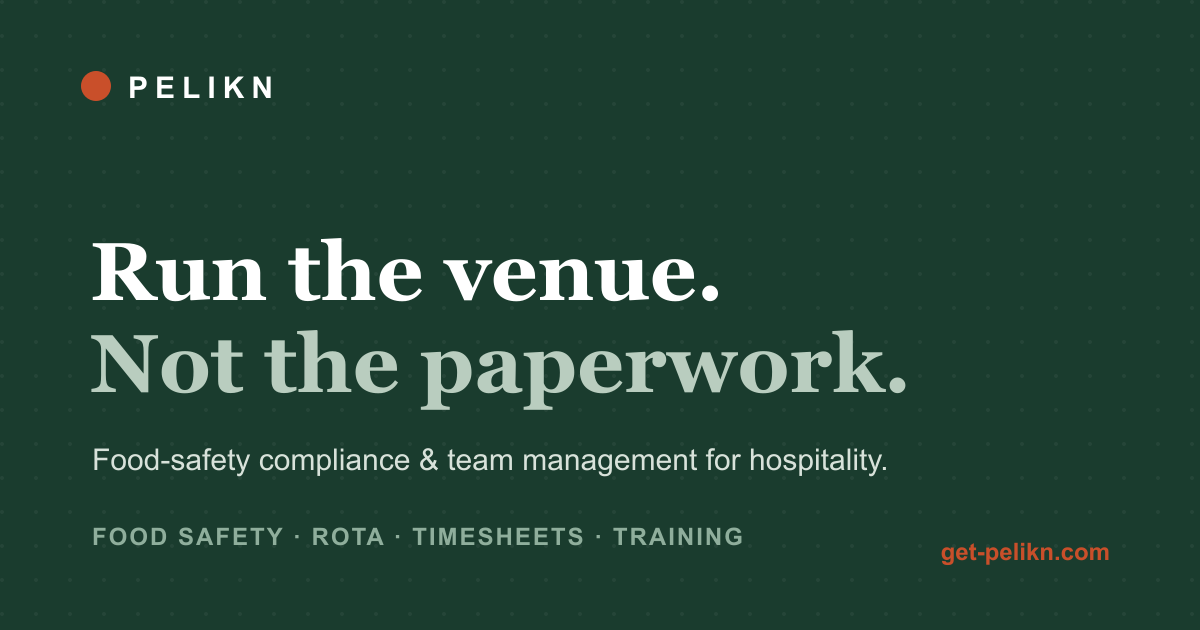
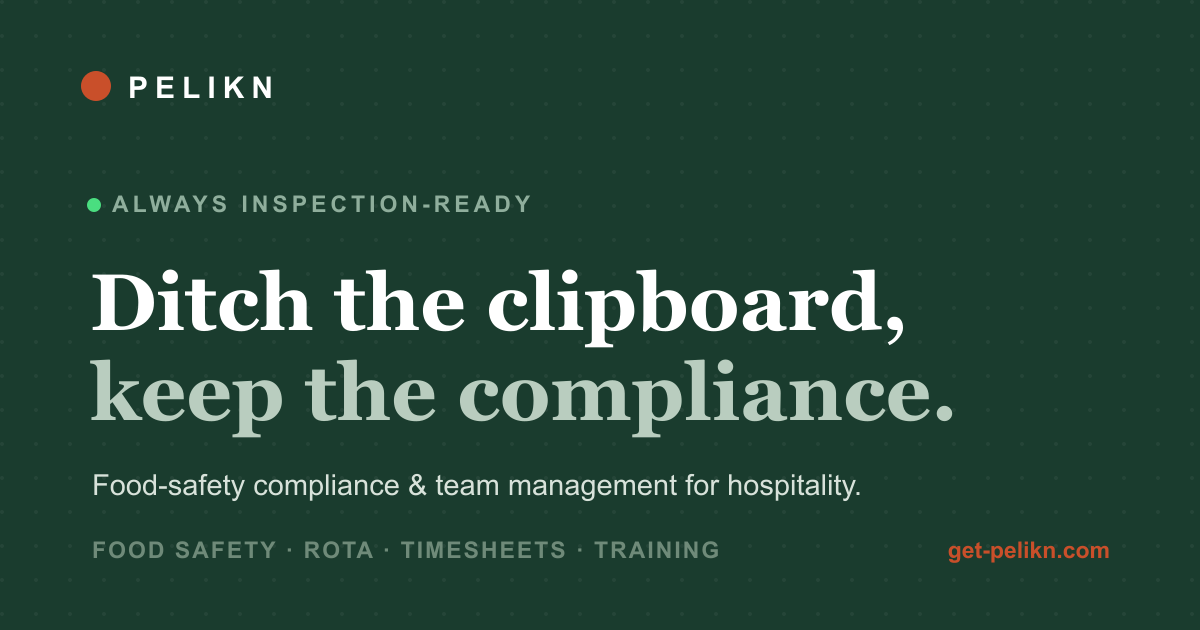
Hero: lead with 'Always inspection-ready' badge; update share tags
Replaces the feature-list hero pill with an 'Always inspection-ready'
eyebrow badge (green dot = ready) above the approved 'Ditch the
clipboard, keep the compliance' headline. Updates OG/Twitter title and
regenerates the share image to match. Drops the old 'Run the venue, not
the paperwork' share line — it implied paperwork is ignored, the opposite
of a compliance product's message.

diff --git a/index.html b/index.html
@@ -20,7 +20,7 @@
     <!-- Open Graph (Facebook, LinkedIn, WhatsApp, Slack…) -->
     <meta property="og:type" content="website" />
     <meta property="og:site_name" content="Pelikn" />
-    <meta property="og:title" content="Pelikn — Run the venue, not the paperwork" />
+    <meta property="og:title" content="Pelikn — Always inspection-ready" />
     <meta property="og:description" content="One app for food-safety records, rotas, timesheets and team management. EHO-ready from day one — from £10/month." />
     <meta property="og:url" content="https://get-pelikn.com/" />
     <meta property="og:image" content="https://get-pelikn.com/og-image.png" />
@@ -30,7 +30,7 @@
 
     <!-- Twitter / X -->
     <meta name="twitter:card" content="summary_large_image" />
-    <meta name="twitter:title" content="Pelikn — Run the venue, not the paperwork" />
+    <meta name="twitter:title" content="Pelikn — Always inspection-ready" />
     <meta name="twitter:description" content="One app for food-safety records, rotas, timesheets and team management. EHO-ready from day one — from £10/month." />
     <meta name="twitter:image" content="https://get-pelikn.com/og-image.png" />
 

diff --git a/src/pages/marketing/MarketingPage.jsx b/src/pages/marketing/MarketingPage.jsx
@@ -725,7 +725,7 @@ export default function MarketingPage() {
           <div style={{ animation:'pkIn 0.55s cubic-bezier(.16,1,.3,1) both' }}>
             <div className="inline-flex items-center gap-2.5 bg-cream/6 border border-cream/10 rounded-full px-4 py-2 mb-10">
               <div className="w-1.5 h-1.5 rounded-full bg-[#4ade80]" style={{ animation:'pkPulse 2.4s ease-in-out infinite' }} />
-              <span className="text-[12px] font-medium text-cream/55 tracking-[0.06em]">Food safety · Rota · Timesheets · Training</span>
+              <span className="text-[12px] font-semibold text-cream/70 tracking-[0.12em] uppercase">Always inspection-ready</span>
             </div>
           </div>
           {/* Headline */}
